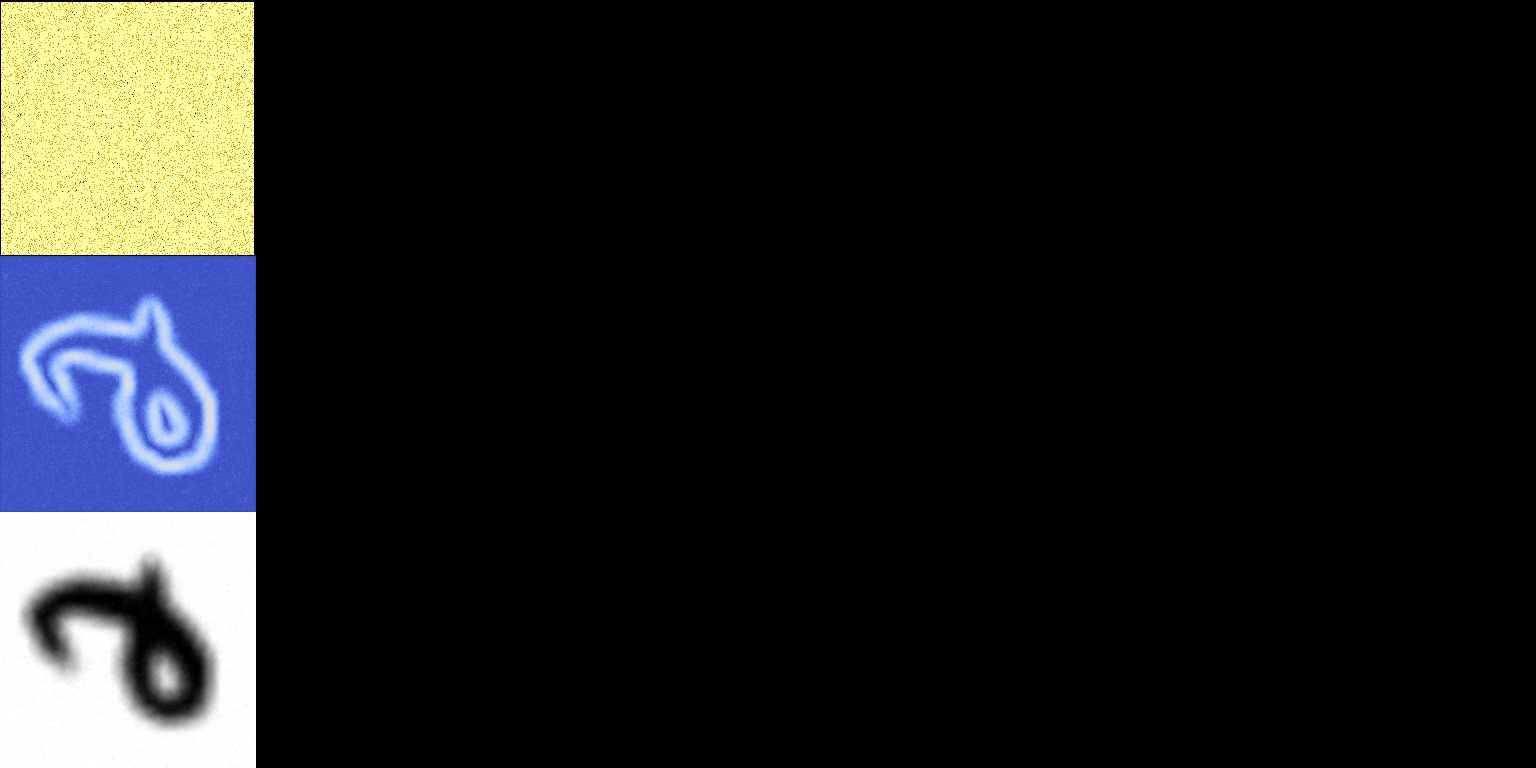
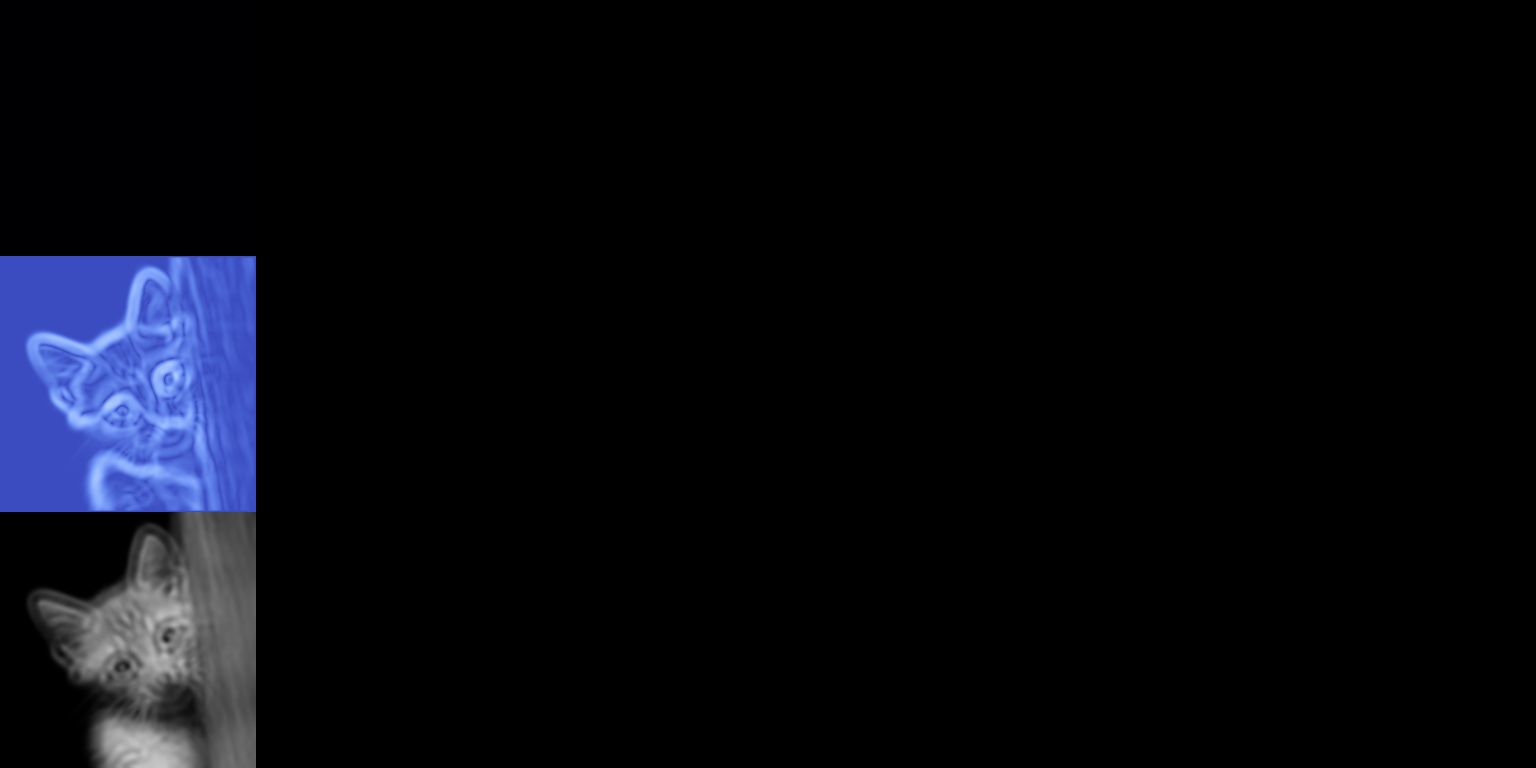
heatmap_done

Changed region(s): [[0.0, 0.0, 0.1875, 1.0]]

diff --git a/numerical_solvers/visualization/KolmogorovSpectrumPlotter.py b/numerical_solvers/visualization/KolmogorovSpectrumPlotter.py
@@ -275,30 +275,47 @@ class SpectrumHeatmapPlotter:
             self.iterations.pop(0)
 
     def plot_heatmap_rgba(self):
+        """
+        Plot a heatmap of the energy spectrum over iterations and return it as an RGBA image array.
+        The image is generated directly at the target resolution to maintain quality.
+        """
+
+
         spectrums_array = np.array(self.spectrums).T
+        m= spectrums_array.shape[0]
 
-        target_dpi = 100
-        fig, ax = plt.subplots(figsize=(2.56, 2.56), dpi=target_dpi)
 
-        ax.imshow(
+        # Create the figure with the exact target size and DPI
+        fig, ax = plt.subplots(figsize=(2.56, 2.56), dpi=100)
+
+        # Plot the heatmap
+        cax = ax.imshow(
             spectrums_array,
             aspect='auto',
-            extent=[min(self.iterations), max(self.iterations), min(SpectrumHeatmapPlotter.k_values), max(SpectrumHeatmapPlotter.k_values)],
             origin='lower',
-            norm=LogNorm(),
+            norm=LogNorm(),  # Log scale for better visualization
             cmap='inferno'
         )
 
-        plt.tight_layout(pad=1.2)
+        # Add a colorbar with a label
+        plt.colorbar(cax)
+
+        # Set titles and labels
+        ax.set_title("Spectrum Heatmap")
+        ax.set_xlabel("Iteration")
+        ax.set_ylabel("Wavenumber $k$")
+
+        plt.tight_layout(pad=0.5)
+
         fig.canvas.draw()
         canvas = np.frombuffer(fig.canvas.tostring_rgb(), dtype=np.uint8)
         canvas = canvas.reshape(fig.canvas.get_width_height()[::-1] + (3,))
+        
+        # Resize the canvas to 256x256 pixels if necessary
+        if canvas.shape[0] != m or canvas.shape[1] != m:
+            canvas = cv2.resize(canvas, (m,m), interpolation=cv2.INTER_AREA)
+        
+        plt.close(fig)  # Close the Matplotlib figure
+        rgba = cm.ScalarMappable().to_rgba(np.flip(np.transpose(canvas, (1, 0, 2)), axis=1)) 
 
-        if canvas.shape[0] != 256 or canvas.shape[1] != 256:
-            canvas = cv2.resize(canvas, (256, 256), interpolation=cv2.INTER_AREA)
-
-        plt.close(fig)
-
-        canvas_rgba = np.dstack([canvas, np.full((canvas.shape[0], canvas.shape[1]), 255, dtype=np.uint8)])
-
-        return canvas_rgba
+        return rgba

diff --git a/numerical_solvers/runners/taichi_lbm_NS_picture_diffuser.py b/numerical_solvers/runners/taichi_lbm_NS_picture_diffuser.py
@@ -29,12 +29,13 @@ from numerical_solvers.solvers.LBM_NS_Solver import LBM_NS_Solver
 # %% read IC
 # https://github.com/taichi-dev/image-processing-with-taichi/blob/main/image_transpose.py
 
-img_path = './numerical_solvers/runners/mnist-2.png'
-# img_path = './numerical_solvers/runners/cat_256x256.jpg'
+# img_path = './numerical_solvers/runners/mnist-2.png'
+img_path = './numerical_solvers/runners/cat_256x256.jpg'
 
 target_size=None
 # target_size=(512, 512)
 target_size = (256, 256) # None
+# target_size = (64, 64) # None
 # target_size = (28, 28) # None
 
 

diff --git a/numerical_solvers/solvers/LBM_NS_Solver.py b/numerical_solvers/solvers/LBM_NS_Solver.py
@@ -38,7 +38,7 @@ class LBM_NS_Solver(LBM_SolverBase):
             # turb_numpy = np.stack((u_turb, v_turb), axis=-1)  # Shape becomes (128, 128, 2)
             # self.Force.from_numpy(turb_numpy)
             
-            self.init_gaussian_force_field(1E-2, 0, 1)
+            # self.init_gaussian_force_field(1E-2, 0, 1)
             # self.apply_bb()
             self.apply_nee_bc()
             self.iterations_counter = self.iterations_counter +1
